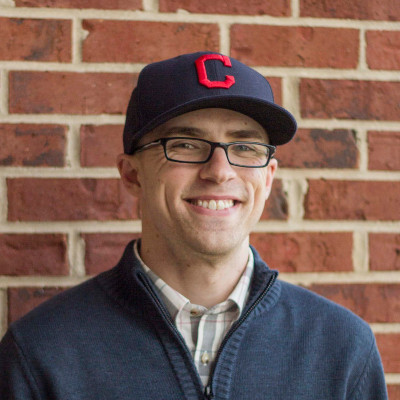
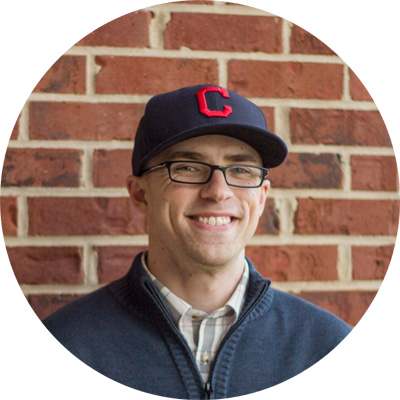
New headshot images with circles, adaptive image formats.

diff --git a/index.html b/index.html
@@ -28,7 +28,11 @@
 		<div class="card">
 			<div class="top">
 				<div class="img">
-					<img src="/img/headshot.jpg" alt="Jimmy Sawczuk" />
+					<picture>
+						<source srcset="/img/headshot.webp" type="image/webp" />
+						<source srcset="/img/headshot.jpg" type="image/jpeg" />
+						<img src="/img/headshot.jpg" alt="Jimmy Sawczuk" />
+					</picture>
 				</div>
 				<div class="details">
 					<h1 class="name">Jimmy Sawczuk</h1>
